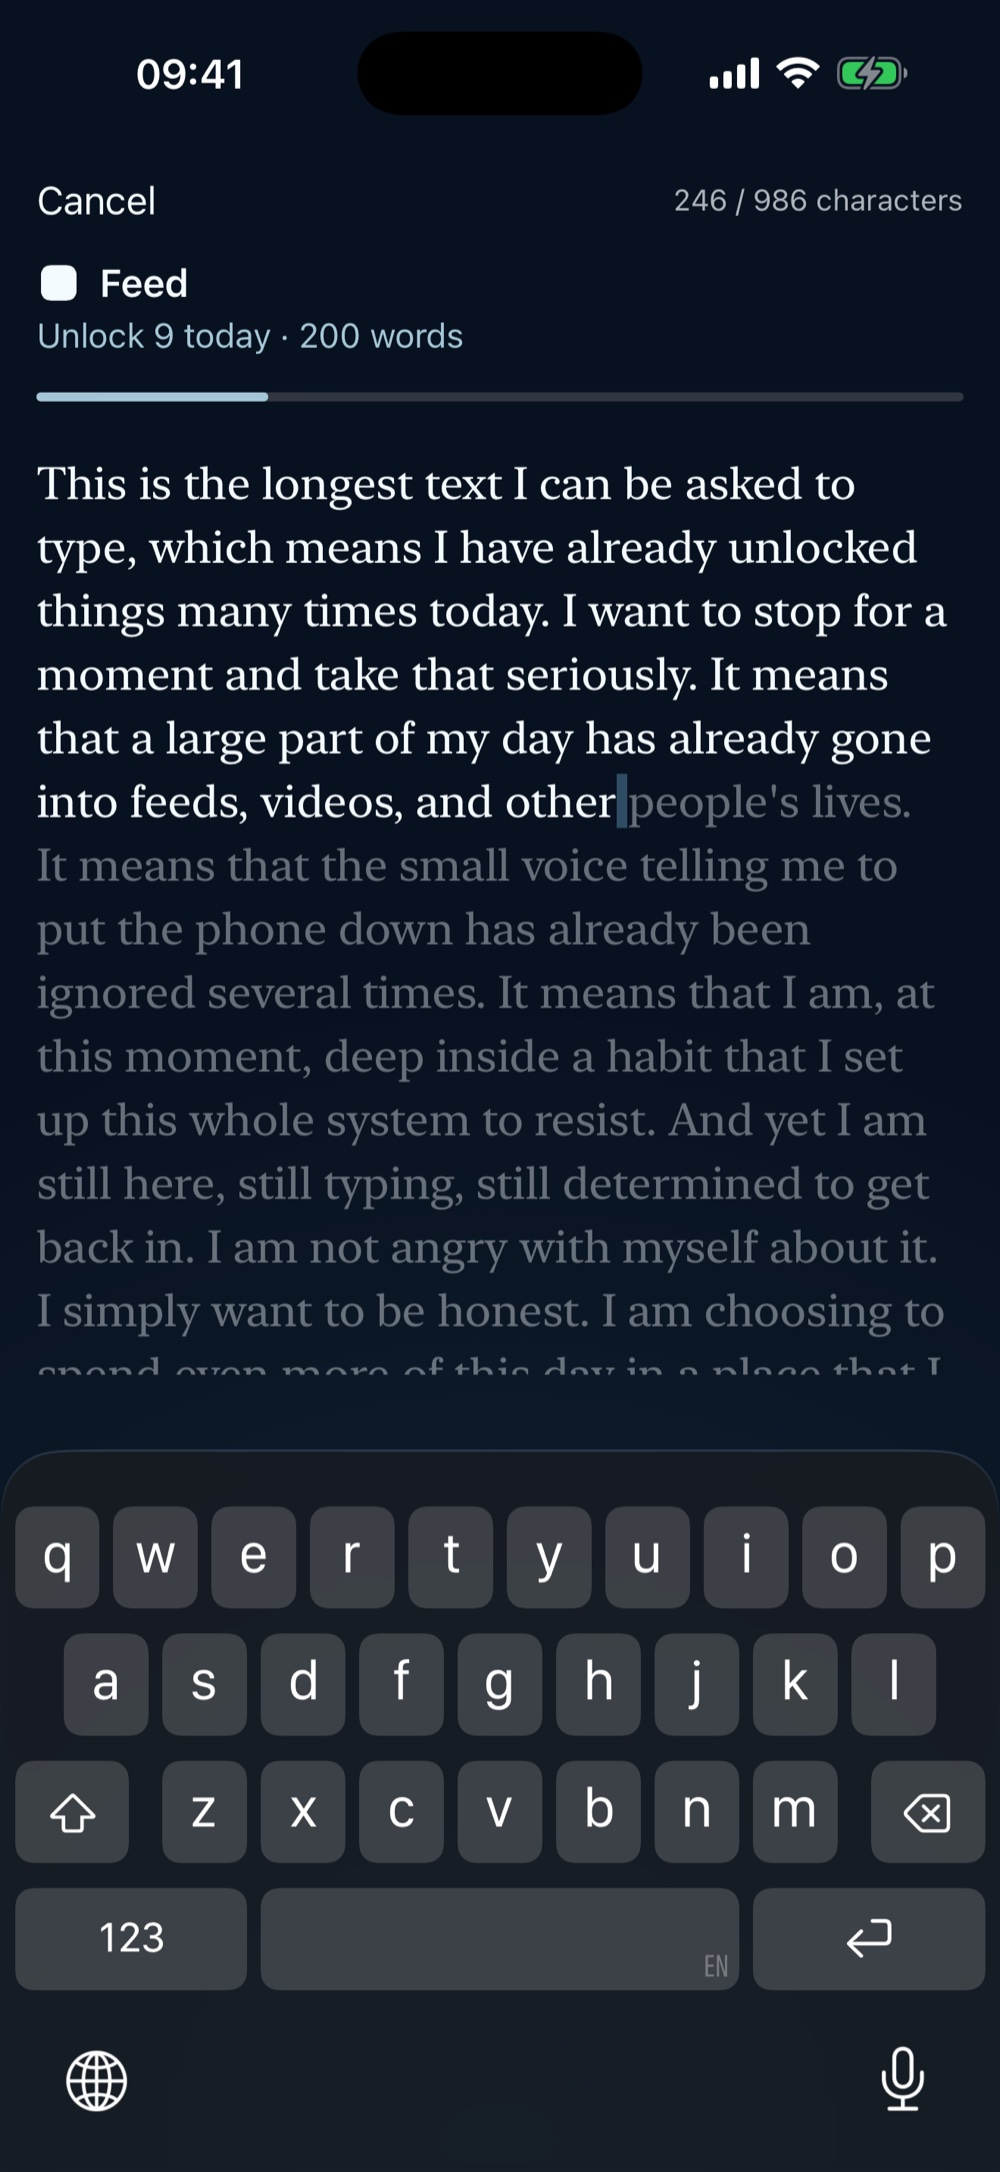
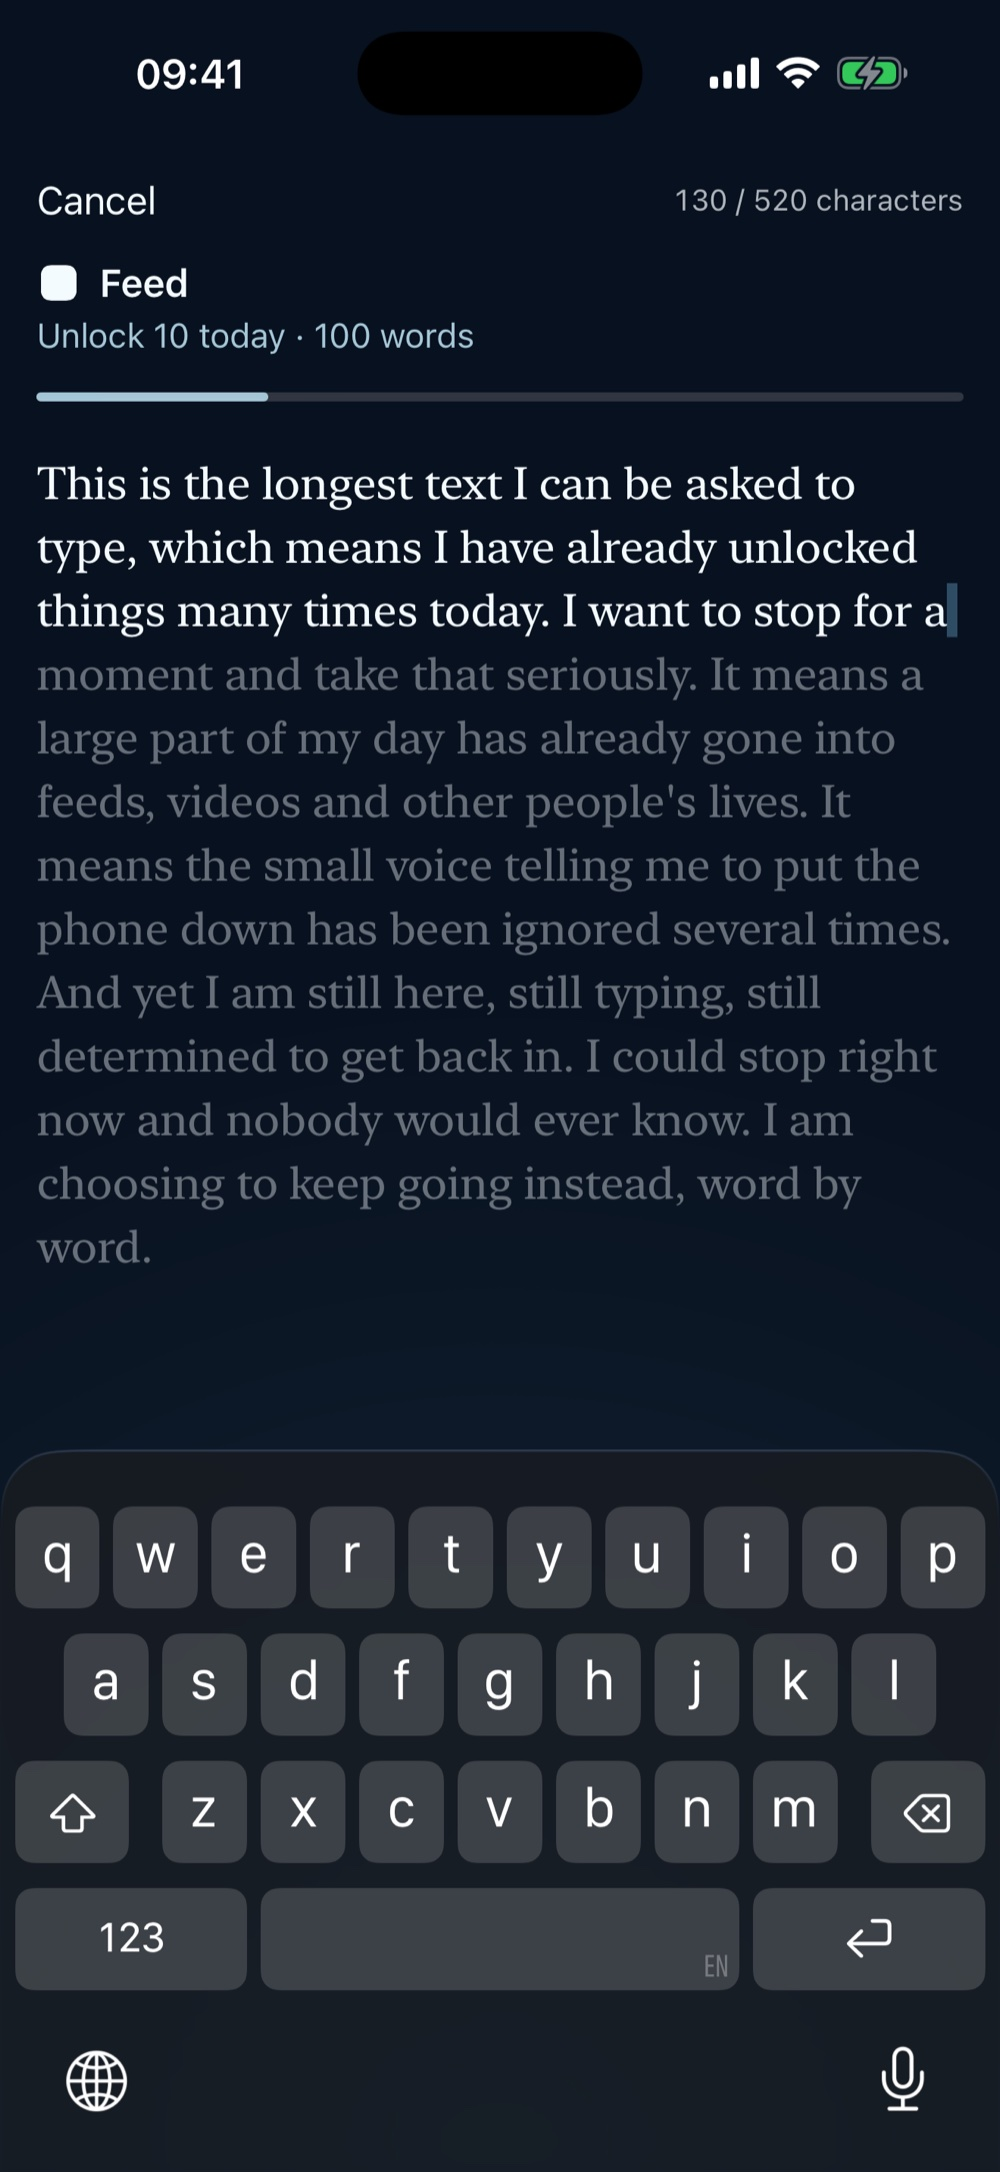
New images and updated text

diff --git a/index.html b/index.html
@@ -52,7 +52,7 @@
       <section class="section narrow">
         <h2>How it works</h2>
         <p><strong>Every app you choose is locked.</strong> Social media, short videos, the news, whatever eats your day. You pick them, and they stay locked.</p>
-        <p><strong>To open one, you have to type it out.</strong> A short text where you admit what you are about to do. The first one of the day is ten words. Every unlock after that is longer, up to two hundred. Then you get the next fifteen minutes, whether you use them or not.</p>
+        <p><strong>To open one, you have to type it out.</strong> A short text where you admit what you are about to do. The first one of the day is ten words. Every unlock after that is ten words longer, up to a hundred. Then you get the next fifteen minutes, whether you use them or not.</p>
         <p><strong>Every minute is counted.</strong> Thumbstone calls it dead time, and shows you what it adds up to: today, this year, and over your life.</p>
         <p><strong>Stay under your limit to stay alive.</strong> Every day under your daily limit keeps your streak alive. Go over, and it dies. It gets a grave in your graveyard. You can bring it back, but only if you earn it the next day.</p>
       </section>
@@ -68,8 +68,8 @@
             <figcaption>The first unlock: ten words.</figcaption>
           </figure>
           <figure>
-            <img src="assets/screenshots/2-typing-long.jpg" width="1000" height="2172" alt="The unlock screen for the ninth unlock of the day: a two hundred word text, partly typed, about having already unlocked many times today.">
-            <figcaption>The ninth: two hundred.</figcaption>
+            <img src="assets/screenshots/2-typing-long.jpg" width="1000" height="2172" alt="The unlock screen for the tenth unlock of the day: a hundred word text, partly typed, about having already unlocked many times today.">
+            <figcaption>The tenth: a hundred.</figcaption>
           </figure>
           <figure>
             <img src="assets/screenshots/3-graveyard.jpg" width="1000" height="2172" loading="lazy" alt="The streak screen: 12 days alive, and a graveyard calendar for the month where days over the limit are marked with graves.">
